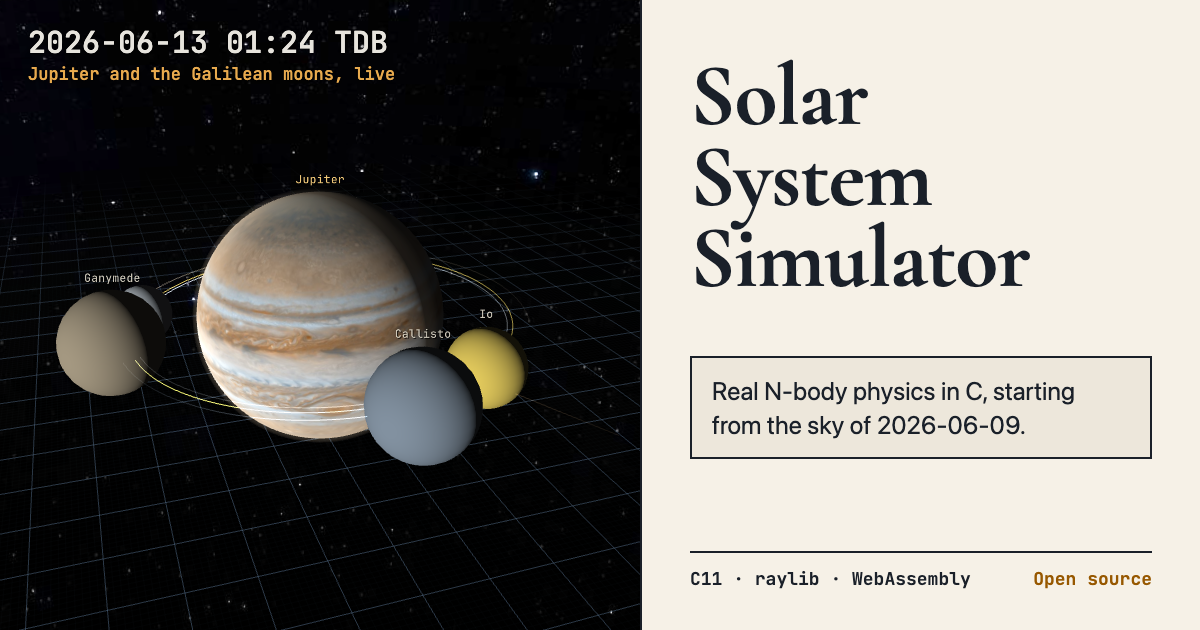
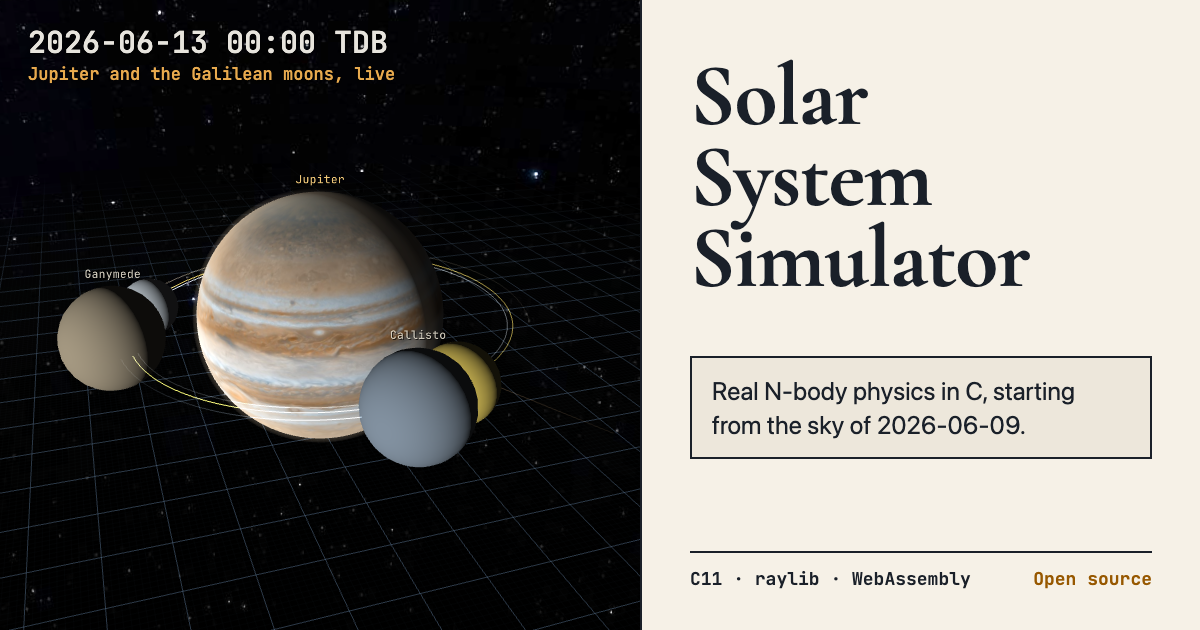
Capture the card at an exact tick; check previews on every page
Fixes from review of #43:

- The capture waited on the two-decimal clock note, so it could fire
  before four days. The clock's <output> now carries the exact simulated
  seconds in `data-seconds`. The generator pauses a quarter day short and
  single-steps the remaining whole 15-second ticks to exactly 345,600 s;
  two runs give identical images.
- The favicon check also rejects <style> and @import.
- The link-preview tags are checked on every published HTML page,
  including 404 and redirect stubs, not only the six routes.
- README and AGENTS say to rebuild the site after regenerating images,
  because docs-check reads docs/dist/.

diff --git a/docs/src/lib/simulator.ts b/docs/src/lib/simulator.ts
@@ -5,7 +5,8 @@ type Readout = Pick<HTMLElement, 'textContent'>;
 interface RuntimeReadouts {
   status: Readout;
   controls: Readout;
-  elapsed: Readout;
+  /** Shows the date; `data-seconds` carries the exact simulated seconds (whole 15 s ticks in scenes) for tools and tests. */
+  elapsed: Readout & { dataset?: DOMStringMap };
   clockNote?: Readout;
   interval: Readout;
   parent: Readout;
@@ -413,6 +414,7 @@ export function createSimulatorModule(canvas: HTMLCanvasElement, readouts: Runti
       setText(readouts.controls, `Selected body: ${state.body}; view: ${state.view}.`);
       setText(readouts.elapsed, state.dated ? sceneDate(state.elapsedSeconds)
         : `${(state.elapsedSeconds / 86400).toFixed(4)} d (${Number(state.elapsedSeconds.toPrecision(12))} s)`);
+      if (readouts.elapsed.dataset) readouts.elapsed.dataset.seconds = String(state.elapsedSeconds);
       if (readouts.clockNote) setText(readouts.clockNote, clockNote(state.elapsedSeconds, Boolean(state.dated)));
       if (readouts.name) setText(readouts.name, state.body);
       if (readouts.period) setText(readouts.period, !state.hasParent ? 'N/A — no parent'

diff --git a/tools/check_docs_routes.py b/tools/check_docs_routes.py
@@ -114,7 +114,7 @@ PUBLIC_FORBIDDEN_NAMES = {"sitemap.xml", "robots.txt"}
 ACTIVE_DOCUMENT_SUFFIXES = {".svg", ".svgz", ".xhtml", ".xht", ".shtml"}
 ALLOWED_ACTIVE_DOCUMENTS: frozenset[str] = frozenset({"favicon.svg"})
 # Anything in an SVG that can run code or pull in another resource.
-SVG_ACTIVE_CONTENT = re.compile(r"<\s*(script|foreignObject|iframe|object|embed|use|image)\b|\son[a-z]+\s*=|href\s*=|url\(", re.I)
+SVG_ACTIVE_CONTENT = re.compile(r"<\s*(script|style|foreignObject|iframe|object|embed|use|image)\b|\son[a-z]+\s*=|href\s*=|url\(|@import", re.I)
 
 
 def check_astro_generated(dist: Path, allowed: frozenset[str] | set[str] = ALLOWED_ACTIVE_DOCUMENTS) -> None:
@@ -298,6 +298,17 @@ def check_site_images(dist: Path) -> None:
         fail("favicon.svg must stay static shapes: no scripts, handlers, links or external resources")
 
 
+PREVIEW_MARKERS = (f'property="og:image" content="{SOCIAL_IMAGE}"', 'name="twitter:card" content="summary_large_image"',
+                   'property="og:image:width" content="1200"', 'rel="apple-touch-icon"')
+
+
+def check_preview_tags(route: str, html: str) -> None:
+    """Any published page can be shared, including 404 and redirect stubs."""
+    for marker in PREVIEW_MARKERS:
+        if marker not in html:
+            fail(f"{route} missing link-preview marker: {marker}")
+
+
 def main(argv: list[str]) -> int:
     dist = Path(argv[1]) if len(argv) > 1 else Path("docs/dist")
     if not dist.is_dir():
@@ -315,7 +326,9 @@ def main(argv: list[str]) -> int:
     check_astro_generated(dist)
     check_not_found_page(dist)
     for page in sorted(dist.rglob("*.html")):
-        check_page_security(page.relative_to(dist).as_posix(), page.read_text(encoding="utf-8", errors="replace"))
+        html = page.read_text(encoding="utf-8", errors="replace")
+        check_page_security(page.relative_to(dist).as_posix(), html)
+        check_preview_tags(page.relative_to(dist).as_posix(), html)
     check_public_sources(Path(__file__).resolve().parents[1] / "docs" / "public")
 
     analytics_id = os.environ.get("PUBLIC_GA_ID", "")
@@ -339,10 +352,6 @@ def main(argv: list[str]) -> int:
         current = sum(attrs.get("aria-current") in {"page", "location"} for attrs in primary_links)
         if current != (0 if route == "index.html" else 1):
             fail(f"{route} must mark exactly its own section as current (none on the simulator)")
-        for marker in (f'property="og:image" content="{SOCIAL_IMAGE}"', 'name="twitter:card" content="summary_large_image"',
-                       'property="og:image:width" content="1200"', 'rel="apple-touch-icon"'):
-            if marker not in html:
-                fail(f"{route} missing link-preview marker: {marker}")
         if "rel=\"canonical\"" not in html:
             fail(f"{route} missing canonical URL")
         if "Skip to content" not in html:

diff --git a/tests/test_artifact_checks.py b/tests/test_artifact_checks.py
@@ -9,7 +9,7 @@ from unittest.mock import patch
 
 ROOT = Path(__file__).resolve().parents[1]
 sys.path.insert(0, str(ROOT / "tools"))
-from check_docs_routes import check_site_images, check_astro_generated, check_internal_references, check_not_found_page, check_page_security, check_public_sources, check_sitemap
+from check_docs_routes import check_preview_tags, check_site_images, check_astro_generated, check_internal_references, check_not_found_page, check_page_security, check_public_sources, check_sitemap
 from check_wasm_artifacts import main as check_wasm
 
 
@@ -90,7 +90,8 @@ class ArtifactChecks(unittest.TestCase):
             (dist / "favicon.svg").write_text('<svg xmlns="http://www.w3.org/2000/svg"><circle r="4"/></svg>')
             check_site_images(dist)
             for svg in ('<svg><script>alert(1)</script></svg>', '<svg><rect onload="x()"/></svg>',
-                        '<svg><image href="https://example.test/a.png"/></svg>', '<svg><rect style="fill:url(https://x)"/></svg>'):
+                        '<svg><image href="https://example.test/a.png"/></svg>', '<svg><rect style="fill:url(https://x)"/></svg>',
+                        '<svg><style>@import "https://example.test/icon.css";</style></svg>'):
                 with self.subTest(svg=svg), self.assertRaises(SystemExit):
                     (dist / "favicon.svg").write_text(svg)
                     check_site_images(dist)
@@ -98,6 +99,14 @@ class ArtifactChecks(unittest.TestCase):
             (dist / "social-preview.png").write_bytes(png(1200, 600))
             with self.assertRaises(SystemExit):
                 check_site_images(dist)
+
+    def test_every_page_carries_the_link_preview_tags(self):
+        html = ('<meta property="og:image" content="https://jonathanperis.github.io/solar-system-simulator/social-preview.png">'
+                '<meta name="twitter:card" content="summary_large_image"><meta property="og:image:width" content="1200">'
+                '<link rel="apple-touch-icon" href="/solar-system-simulator/apple-touch-icon.png">')
+        check_preview_tags("404.html", html)
+        with self.assertRaises(SystemExit):
+            check_preview_tags("physics/index.html", html.replace('summary_large_image', 'summary'))
 
     def test_not_found_page_is_an_astro_noindex_page_linking_home(self):
         good = ('<html><head><meta name="generator" content="Astro v7.3.6"><meta name="robots" content="noindex">'

diff --git a/README.md b/README.md
@@ -370,7 +370,7 @@ The [live simulator](https://jonathanperis.github.io/solar-system-simulator/) is
 
 Every published page is an Astro page, including that compatibility redirect (rendered from `docs/src/pages/wasm/solar-system-simulator.html.astro` and published at its historic filename) and the generated `sitemap.xml`. `make docs-check` fails if a generated HTML file lacks the layout's Astro generator marker or if `docs/public/` contains HTML, a sitemap, or a robots file; scriptable SVG/XHTML/SHTML files need an explicit allow-list, and the noindex `404.html` comes from `docs/src/pages/404.astro`. Each page also carries a strict Content-Security-Policy (same-origin scripts, styles, fonts and connections plus `'wasm-unsafe-eval'`; Google Analytics hosts only on deployed `main`), and fonts are self-hosted under the SIL Open Font License.
 
-Link previews use `docs/public/social-preview.png` (1200×630: a simulator frame of Jupiter and the Galilean moons beside the title), and the icons come from `docs/public/favicon.svg`: an amber Sun inside a tilted orbit on the instrument's dark background. `node tools/site_images.mjs <served base URL>` regenerates the card, `favicon.ico`, the 32 px PNG and the Apple touch icon from the built site. The capture is deterministic: rotation off, four simulated days after the 2026-06-09 sky. `make docs-check` requires the card's size, the link-preview tags on every page and a script-free SVG.
+Link previews use `docs/public/social-preview.png` (1200×630: a simulator frame of Jupiter and the Galilean moons beside the title), and the icons come from `docs/public/favicon.svg`: an amber Sun inside a tilted orbit on the instrument's dark background. `node tools/site_images.mjs <served base URL>` regenerates the card, `favicon.ico`, the 32 px PNG and the Apple touch icon from the built site into `docs/public/`; rebuild the site (`npm run build --prefix docs`) before `make docs-check` or a preview, which read `docs/dist/`. The capture is deterministic: rotation off, four simulated days after the 2026-06-09 sky. `make docs-check` requires the card's size, the link-preview tags on every page and a script-free SVG.
 
 ```sh
 make docs-assets RAYLIB_WEB_SRC=/absolute/path/to/raylib/src

diff --git a/AGENTS.md b/AGENTS.md
@@ -116,7 +116,7 @@ solar-system-simulator/
 - Web controls call the C command boundary in `src/main.c`. Keep numeric command IDs aligned with `runtimeCommands` in `docs/src/lib/simulator.ts` (`tools/check_catalog.mjs` fails on any mismatch); the C scene populates the body selector.
 - Parent-relative trail and vector controls are renderer-only. Use synchronized parent samples and subtract in double precision. Vector glyph lengths are illustrative, even when their directions come from SI state.
 - Build, CLI, sanitizer and validator entrypoints are `make test-build test-cli test-sanitize test-validators`. On macOS, `make test-native-shaders` renders Earth offscreen through the real GLSL 330 shaders and maps (the CI macOS job runs it with `make test`); use it after shader edits because a native window cannot always be opened from an agent sandbox. Cross-check the C/TypeScript core catalog with `node tools/check_catalog.mjs` after `make headless`.
-- Link previews and icons: `docs/public/social-preview.png` (og:image, 1200×630) and the icon set are rendered by `node tools/site_images.mjs <served base URL>` from a deterministic simulator frame and the hand-written `docs/public/favicon.svg` (static shapes only; `make docs-check` rejects scripts, handlers or links in it). Regenerate them when the instrument's look changes.
+- Link previews and icons: `docs/public/social-preview.png` (og:image, 1200×630) and the icon set are rendered by `node tools/site_images.mjs <served base URL>` from a deterministic simulator frame and the hand-written `docs/public/favicon.svg` (static shapes only; `make docs-check` rejects scripts, handlers or links in it). Regenerate them when the instrument's look changes, then rebuild the site before `make docs-check` (it reads `docs/dist/`). The capture steps to exactly 345,600 simulated seconds using the clock's `data-seconds`.
 - Frame-system uses renderer-only family bounds and aspect-aware camera fitting. Inspector distances/speeds always use parent-relative SI state, independent of render mode.
 
 ---
